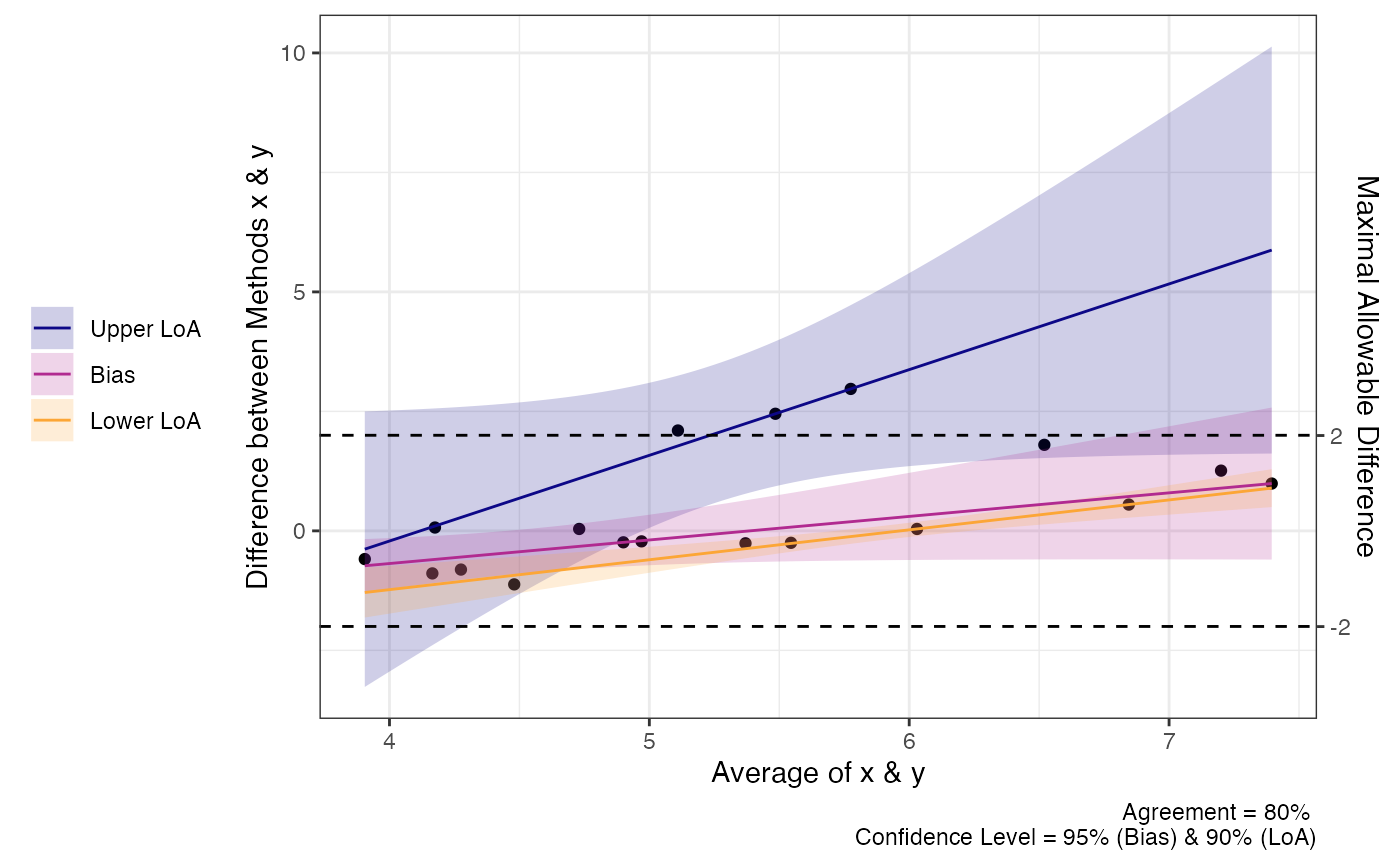
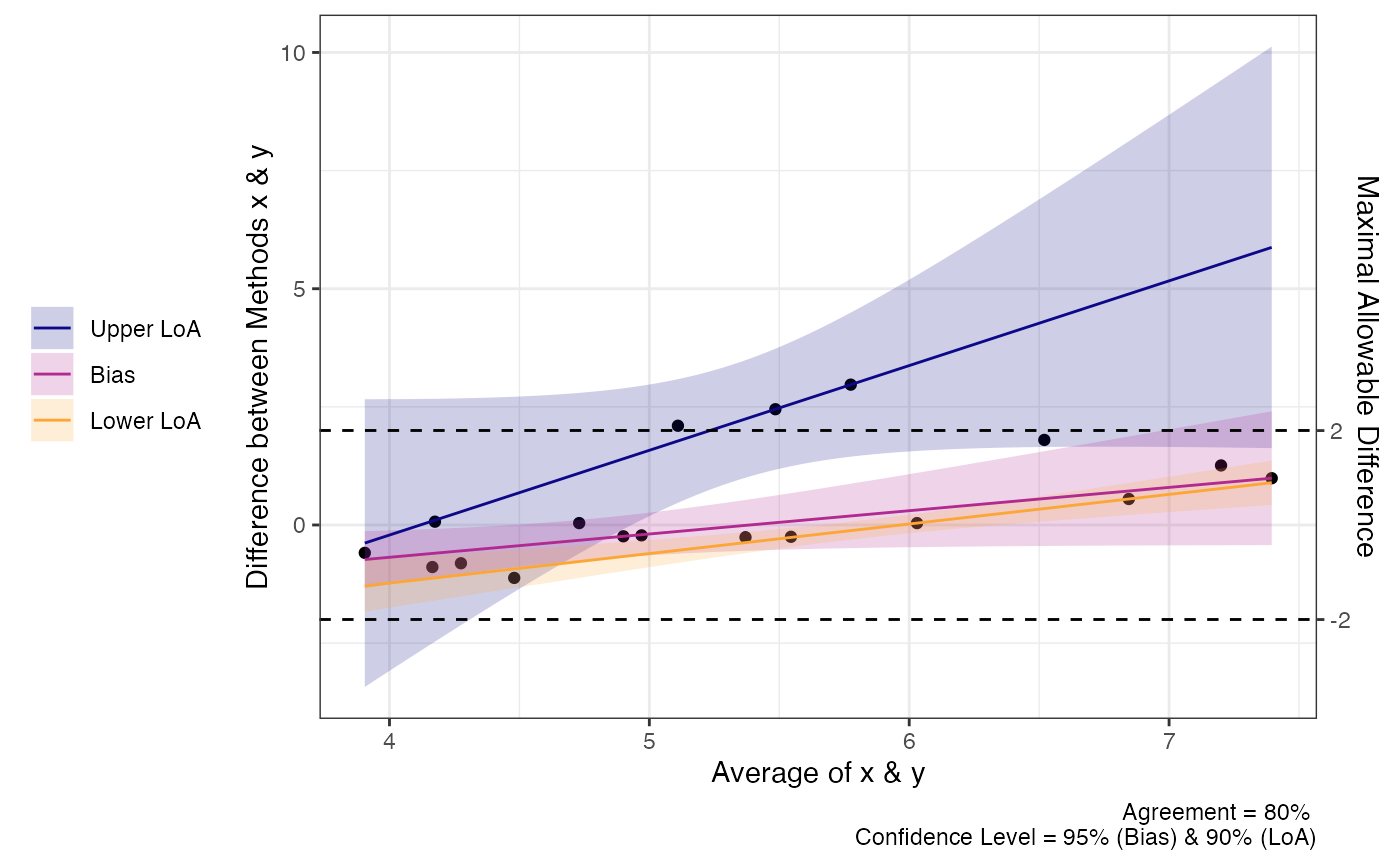
Update site and added tests

diff --git a/docs/reference/reli_stats.html b/docs/reference/reli_stats.html
@@ -1,5 +1,5 @@
 <!DOCTYPE html>
-<!-- Generated by pkgdown: do not edit by hand --><html lang="en"><head><meta http-equiv="Content-Type" content="text/html; charset=UTF-8"><meta charset="utf-8"><meta http-equiv="X-UA-Compatible" content="IE=edge"><meta name="viewport" content="width=device-width, initial-scale=1.0"><title>Reliability Statistics — reli_stats • SimplyAgree</title><!-- jquery --><script src="https://cdnjs.cloudflare.com/ajax/libs/jquery/3.4.1/jquery.min.js" integrity="sha256-CSXorXvZcTkaix6Yvo6HppcZGetbYMGWSFlBw8HfCJo=" crossorigin="anonymous"></script><!-- Bootstrap --><link rel="stylesheet" href="https://cdnjs.cloudflare.com/ajax/libs/twitter-bootstrap/3.4.1/css/bootstrap.min.css" integrity="sha256-bZLfwXAP04zRMK2BjiO8iu9pf4FbLqX6zitd+tIvLhE=" crossorigin="anonymous"><script src="https://cdnjs.cloudflare.com/ajax/libs/twitter-bootstrap/3.4.1/js/bootstrap.min.js" integrity="sha256-nuL8/2cJ5NDSSwnKD8VqreErSWHtnEP9E7AySL+1ev4=" crossorigin="anonymous"></script><!-- bootstrap-toc --><link rel="stylesheet" href="../bootstrap-toc.css"><script src="../bootstrap-toc.js"></script><!-- Font Awesome icons --><link rel="stylesheet" href="https://cdnjs.cloudflare.com/ajax/libs/font-awesome/5.12.1/css/all.min.css" integrity="sha256-mmgLkCYLUQbXn0B1SRqzHar6dCnv9oZFPEC1g1cwlkk=" crossorigin="anonymous"><link rel="stylesheet" href="https://cdnjs.cloudflare.com/ajax/libs/font-awesome/5.12.1/css/v4-shims.min.css" integrity="sha256-wZjR52fzng1pJHwx4aV2AO3yyTOXrcDW7jBpJtTwVxw=" crossorigin="anonymous"><!-- clipboard.js --><script src="https://cdnjs.cloudflare.com/ajax/libs/clipboard.js/2.0.6/clipboard.min.js" integrity="sha256-inc5kl9MA1hkeYUt+EC3BhlIgyp/2jDIyBLS6k3UxPI=" crossorigin="anonymous"></script><!-- headroom.js --><script src="https://cdnjs.cloudflare.com/ajax/libs/headroom/0.11.0/headroom.min.js" integrity="sha256-AsUX4SJE1+yuDu5+mAVzJbuYNPHj/WroHuZ8Ir/CkE0=" crossorigin="anonymous"></script><script src="https://cdnjs.cloudflare.com/ajax/libs/headroom/0.11.0/jQuery.headroom.min.js" integrity="sha256-ZX/yNShbjqsohH1k95liqY9Gd8uOiE1S4vZc+9KQ1K4=" crossorigin="anonymous"></script><!-- pkgdown --><link href="../pkgdown.css" rel="stylesheet"><script src="../pkgdown.js"></script><meta property="og:title" content="Reliability Statistics — reli_stats"><meta property="og:description" content="reli_stats produces reliability statistics described by Weir (2005). This includes intraclass correlation coefficients, the coefficient of variation, and the standard MSE of measurement."><!-- mathjax --><script src="https://cdnjs.cloudflare.com/ajax/libs/mathjax/2.7.5/MathJax.js" integrity="sha256-nvJJv9wWKEm88qvoQl9ekL2J+k/RWIsaSScxxlsrv8k=" crossorigin="anonymous"></script><script src="https://cdnjs.cloudflare.com/ajax/libs/mathjax/2.7.5/config/TeX-AMS-MML_HTMLorMML.js" integrity="sha256-84DKXVJXs0/F8OTMzX4UR909+jtl4G7SPypPavF+GfA=" crossorigin="anonymous"></script><!--[if lt IE 9]>
+<!-- Generated by pkgdown: do not edit by hand --><html lang="en"><head><meta http-equiv="Content-Type" content="text/html; charset=UTF-8"><meta charset="utf-8"><meta http-equiv="X-UA-Compatible" content="IE=edge"><meta name="viewport" content="width=device-width, initial-scale=1.0"><title>Reliability Statistics — reli_stats • SimplyAgree</title><!-- jquery --><script src="https://cdnjs.cloudflare.com/ajax/libs/jquery/3.4.1/jquery.min.js" integrity="sha256-CSXorXvZcTkaix6Yvo6HppcZGetbYMGWSFlBw8HfCJo=" crossorigin="anonymous"></script><!-- Bootstrap --><link rel="stylesheet" href="https://cdnjs.cloudflare.com/ajax/libs/twitter-bootstrap/3.4.1/css/bootstrap.min.css" integrity="sha256-bZLfwXAP04zRMK2BjiO8iu9pf4FbLqX6zitd+tIvLhE=" crossorigin="anonymous"><script src="https://cdnjs.cloudflare.com/ajax/libs/twitter-bootstrap/3.4.1/js/bootstrap.min.js" integrity="sha256-nuL8/2cJ5NDSSwnKD8VqreErSWHtnEP9E7AySL+1ev4=" crossorigin="anonymous"></script><!-- bootstrap-toc --><link rel="stylesheet" href="../bootstrap-toc.css"><script src="../bootstrap-toc.js"></script><!-- Font Awesome icons --><link rel="stylesheet" href="https://cdnjs.cloudflare.com/ajax/libs/font-awesome/5.12.1/css/all.min.css" integrity="sha256-mmgLkCYLUQbXn0B1SRqzHar6dCnv9oZFPEC1g1cwlkk=" crossorigin="anonymous"><link rel="stylesheet" href="https://cdnjs.cloudflare.com/ajax/libs/font-awesome/5.12.1/css/v4-shims.min.css" integrity="sha256-wZjR52fzng1pJHwx4aV2AO3yyTOXrcDW7jBpJtTwVxw=" crossorigin="anonymous"><!-- clipboard.js --><script src="https://cdnjs.cloudflare.com/ajax/libs/clipboard.js/2.0.6/clipboard.min.js" integrity="sha256-inc5kl9MA1hkeYUt+EC3BhlIgyp/2jDIyBLS6k3UxPI=" crossorigin="anonymous"></script><!-- headroom.js --><script src="https://cdnjs.cloudflare.com/ajax/libs/headroom/0.11.0/headroom.min.js" integrity="sha256-AsUX4SJE1+yuDu5+mAVzJbuYNPHj/WroHuZ8Ir/CkE0=" crossorigin="anonymous"></script><script src="https://cdnjs.cloudflare.com/ajax/libs/headroom/0.11.0/jQuery.headroom.min.js" integrity="sha256-ZX/yNShbjqsohH1k95liqY9Gd8uOiE1S4vZc+9KQ1K4=" crossorigin="anonymous"></script><!-- pkgdown --><link href="../pkgdown.css" rel="stylesheet"><script src="../pkgdown.js"></script><meta property="og:title" content="Reliability Statistics — reli_stats"><meta property="og:description" content="reli_stats and reli_aov produces reliability statistics described by Weir (2005). This includes intraclass correlation coefficients, the coefficient of variation, and the standard MSE of measurement."><!-- mathjax --><script src="https://cdnjs.cloudflare.com/ajax/libs/mathjax/2.7.5/MathJax.js" integrity="sha256-nvJJv9wWKEm88qvoQl9ekL2J+k/RWIsaSScxxlsrv8k=" crossorigin="anonymous"></script><script src="https://cdnjs.cloudflare.com/ajax/libs/mathjax/2.7.5/config/TeX-AMS-MML_HTMLorMML.js" integrity="sha256-84DKXVJXs0/F8OTMzX4UR909+jtl4G7SPypPavF+GfA=" crossorigin="anonymous"></script><!--[if lt IE 9]>
 <script src="https://oss.maxcdn.com/html5shiv/3.7.3/html5shiv.min.js"></script>
 <script src="https://oss.maxcdn.com/respond/1.4.2/respond.min.js"></script>
 <![endif]--></head><body data-spy="scroll" data-target="#toc">
@@ -17,7 +17,7 @@
       </button>
       <span class="navbar-brand">
         <a class="navbar-link" href="../index.html">SimplyAgree</a>
-        <span class="version label label-default" data-toggle="tooltip" data-placement="bottom" title="">0.1.1</span>
+        <span class="version label label-default" data-toggle="tooltip" data-placement="bottom" title="">0.1.2</span>
       </span>
     </div>
 
@@ -62,7 +62,7 @@
     </div>
 
     <div class="ref-description">
-    <p>reli_stats produces reliability statistics described by Weir (2005). This includes intraclass correlation coefficients, the coefficient of variation, and the standard MSE of measurement.</p>
+    <p>reli_stats and reli_aov produces reliability statistics described by Weir (2005). This includes intraclass correlation coefficients, the coefficient of variation, and the standard MSE of measurement.</p>
     </div>
 
     <div id="ref-usage">
@@ -73,7 +73,21 @@
   <span class="va">data</span>,
   wide <span class="op">=</span> <span class="cn">FALSE</span>,
   col.names <span class="op">=</span> <span class="cn">NULL</span>,
-  cv_calc <span class="op">=</span> <span class="st">"MSE"</span>,
+  cv_calc <span class="op">=</span> <span class="fu"><a href="https://rdrr.io/r/base/c.html" class="external-link">c</a></span><span class="op">(</span><span class="st">"MSE"</span>, <span class="st">"residuals"</span>, <span class="st">"SEM"</span><span class="op">)</span>,
+  conf.level <span class="op">=</span> <span class="fl">0.95</span>,
+  other_ci <span class="op">=</span> <span class="cn">FALSE</span>,
+  type <span class="op">=</span> <span class="fu"><a href="https://rdrr.io/r/base/c.html" class="external-link">c</a></span><span class="op">(</span><span class="st">"perc"</span>, <span class="st">"norm"</span>, <span class="st">"basic"</span><span class="op">)</span>,
+  replicates <span class="op">=</span> <span class="fl">1999</span>
+<span class="op">)</span>
+
+<span class="fu">reli_aov</span><span class="op">(</span>
+  <span class="va">measure</span>,
+  <span class="va">item</span>,
+  <span class="va">id</span>,
+  <span class="va">data</span>,
+  wide <span class="op">=</span> <span class="cn">FALSE</span>,
+  col.names <span class="op">=</span> <span class="cn">NULL</span>,
+  cv_calc <span class="op">=</span> <span class="fu"><a href="https://rdrr.io/r/base/c.html" class="external-link">c</a></span><span class="op">(</span><span class="st">"MSE"</span>, <span class="st">"residuals"</span>, <span class="st">"SEM"</span><span class="op">)</span>,
   conf.level <span class="op">=</span> <span class="fl">0.95</span>,
   other_ci <span class="op">=</span> <span class="cn">FALSE</span>,
   type <span class="op">=</span> <span class="st">"perc"</span>,
@@ -146,13 +160,15 @@
 </dl></div>
     <div id="details">
     <h2>Details</h2>
-    <p>The CV calculation has 3 versions. The "MSE" uses the "mean squared error" from the linear mixed model used to calculate the ICCs.
-The "SEM" option instead uses the SEM calculation and expresses CV as a ratio of the SEM to the overall mean.
-The "residuals" option uses the sjstats R package approach which uses the model residuals to calculate the root mean square error which is then divided by the grand mean.</p>
-<p>This function returns intraclass correlation coefficients and other measures of reliability (CV, SEM, SEE, and SEP).
+    <p>These functions return intraclass correlation coefficients and other measures of reliability (CV, SEM, SEE, and SEP).
 The estimates of variances for any of the measures are derived from linear mixed models.
-The results may differ slightly from the results from ICC calculations derived from an analysis of variance.
 When other_ci is set to TRUE, then a parametric bootstrap approach to calculating confidence intervals is used for the CV, SEM, SEE, and SEP.</p>
+<p>reli_stats uses a linear mixed model to estimate variance components. In some cases there are convergence issues.
+When this occurs it is prudent to use reli_aov which instead utilizes sums of squares approach.
+The results may differ slightly between the functions.</p>
+<p>The CV calculation has 3 versions. The "MSE" uses the "mean squared error" from the linear mixed model used to calculate the ICCs.
+The "SEM" option instead uses the SEM calculation and expresses CV as a ratio of the SEM to the overall mean.
+The "residuals" option u uses the model residuals to calculate the root mean square error which is then divided by the grand mean.</p>
     </div>
     <div id="references">
     <h2>References</h2>

diff --git a/docs/articles/reliability_analysis.html b/docs/articles/reliability_analysis.html
@@ -33,7 +33,7 @@
       </button>
       <span class="navbar-brand">
         <a class="navbar-link" href="../index.html">SimplyAgree</a>
-        <span class="version label label-default" data-toggle="tooltip" data-placement="bottom" title="">0.1.1</span>
+        <span class="version label label-default" data-toggle="tooltip" data-placement="bottom" title="">0.1.2</span>
       </span>
     </div>
 
@@ -100,7 +100,7 @@ Caldwell</h4>
 reliability of a measurement. This R package allows for the calculation
 of Intraclass Correlation Coefficients (ICC), various standard errors
 (SEM, SEE, and SEP), and coefficient of variation. All of the underlying
-calculations (sans the coefficient of variation) is based on the paper
+calculations (sans the coefficient of variation) are based on the paper
 by <span class="citation">Weir (<a href="#ref-weir2005" role="doc-biblioref">2005</a>)</span><a href="#fn1" class="footnote-ref" id="fnref1"><sup>1</sup></a>. This is a fairly popular paper within my
 own field (kinesiology), and hence was the inspiration for creating this
 function that provides all the calculative approaches included within
@@ -176,6 +176,39 @@ items (e.g., time points).</p>
 <div class="sourceCode" id="cb4"><pre class="downlit sourceCode r">
 <code class="sourceCode R"><span class="fu"><a href="https://rdrr.io/r/graphics/plot.default.html" class="external-link">plot</a></span><span class="op">(</span><span class="va">test1</span><span class="op">)</span></code></pre></div>
 <p><img src="reliability_analysis_files/figure-html/unnamed-chunk-4-1.png" width="576"></p>
+</div>
+<div class="section level2">
+<h2 id="convergence-issues">Convergence Issues<a class="anchor" aria-label="anchor" href="#convergence-issues"></a>
+</h2>
+<p>In some cases there are convergence issues for the linear mixed
+models. For this reason, I have added a function, <code>reli_aov</code>,
+which uses a sums of squares approach (i.e., analysis of variance)
+rather than a linear mixed model. As you can see below the results will
+often match that of <code>reli_stats</code>. The only time this function
+is necessary to use is when there are convergence issues. Rows with
+missing data are dropped when using <code>reli_aov</code>.</p>
+<div class="sourceCode" id="cb5"><pre class="downlit sourceCode r">
+<code class="sourceCode R"><span class="va">test2</span> <span class="op">=</span> <span class="fu"><a href="../reference/reli_stats.html">reli_aov</a></span><span class="op">(</span>
+  data <span class="op">=</span> <span class="va">dat</span>,
+  wide <span class="op">=</span> <span class="cn">TRUE</span>,
+  col.names <span class="op">=</span> <span class="fu"><a href="https://rdrr.io/r/base/c.html" class="external-link">c</a></span><span class="op">(</span><span class="st">"judge1"</span>, <span class="st">"judge2"</span>, <span class="st">"judge3"</span>, <span class="st">"judge4"</span><span class="op">)</span>
+<span class="op">)</span>
+
+<span class="va">test2</span>
+<span class="co">#&gt; </span>
+<span class="co">#&gt; Coefficient of Variation (%):  19.1</span>
+<span class="co">#&gt; Standard Error of Measurement (SEM):  1.01</span>
+<span class="co">#&gt; Standard Error of the Estimate (SEE):  2.62</span>
+<span class="co">#&gt; Standard Error of Prediction (SEP):  4.06</span>
+<span class="co">#&gt; </span>
+<span class="co">#&gt; Intraclass Correlation Coefficients with  95 % C.I.</span>
+<span class="co">#&gt;            Model         Measures  Type    ICC Lower CI Upper CI</span>
+<span class="co">#&gt; 1 one-way random        Agreement  ICC1 0.1657 -0.09672   0.6434</span>
+<span class="co">#&gt; 2 two-way random        Agreement  ICC2 0.2898  0.04290   0.6911</span>
+<span class="co">#&gt; 3  two-way fixed      Consistency  ICC3 0.7148  0.41183   0.9258</span>
+<span class="co">#&gt; 4 one-way random   Avg. Agreement ICC1k 0.4428 -0.54504   0.8783</span>
+<span class="co">#&gt; 5 two-way random   Avg. Agreement ICC2k 0.6201  0.15204   0.8995</span>
+<span class="co">#&gt; 6  two-way fixed Avg. Consistency ICC3k 0.9093  0.73690   0.9804</span></code></pre></div>
 </div>
 <div class="section level2">
 <h2 id="calculative-approach">Calculative Approach<a class="anchor" aria-label="anchor" href="#calculative-approach"></a>
@@ -499,7 +532,7 @@ penalized less than a pair of values to 1 and 4. For more details, on
 these “agreement coefficients” I refer all users to Gwet’s textbook on
 inter-rater agreement <span class="citation">(<a href="#ref-gwet" role="doc-biblioref">Gwet 2014</a>)</span>.</p>
 <p>As a demonstration, we can create a matrix of ratings.</p>
-<div class="sourceCode" id="cb5"><pre class="downlit sourceCode r">
+<div class="sourceCode" id="cb6"><pre class="downlit sourceCode r">
 <code class="sourceCode R">  <span class="va">ratermat1</span> <span class="op">=</span> <span class="op">(</span><span class="st">"Rater1 Rater2 Rater3 Rater4
 1       1      1     NA      1
 2       2      2      3      2
@@ -518,7 +551,7 @@ inter-rater agreement <span class="citation">(<a href="#ref-gwet" role="doc-bibl
                        header<span class="op">=</span><span class="cn">TRUE</span>,
                        row.names<span class="op">=</span><span class="fl">1</span><span class="op">)</span><span class="op">)</span></code></pre></div>
 <p>We can then perform the analysis without the weights.</p>
-<div class="sourceCode" id="cb6"><pre class="downlit sourceCode r">
+<div class="sourceCode" id="cb7"><pre class="downlit sourceCode r">
 <code class="sourceCode R"><span class="fu"><a href="../reference/agree_coef.html">agree_coef</a></span><span class="op">(</span>data <span class="op">=</span> <span class="va">ratermat2</span>,
                      wide <span class="op">=</span> <span class="cn">TRUE</span>,
                      weighted <span class="op">=</span> <span class="cn">FALSE</span>,
@@ -529,7 +562,7 @@ inter-rater agreement <span class="citation">(<a href="#ref-gwet" role="doc-bibl
 <span class="co">#&gt; Fleiss' Kappa          0.7611693 0.1530192 0.4243763        1</span>
 <span class="co">#&gt; Kririppendorff's Alpha 0.7434211 0.1454787 0.4192743        1</span></code></pre></div>
 <p>Or, perform it with weighting.</p>
-<div class="sourceCode" id="cb7"><pre class="downlit sourceCode r">
+<div class="sourceCode" id="cb8"><pre class="downlit sourceCode r">
 <code class="sourceCode R"><span class="fu"><a href="../reference/agree_coef.html">agree_coef</a></span><span class="op">(</span>data <span class="op">=</span> <span class="va">ratermat2</span>,
                     wide <span class="op">=</span> <span class="cn">TRUE</span>,
                     weighted <span class="op">=</span> <span class="cn">TRUE</span>,

diff --git a/docs/articles/agreement_analysis.html b/docs/articles/agreement_analysis.html
@@ -33,7 +33,7 @@
       </button>
       <span class="navbar-brand">
         <a class="navbar-link" href="../index.html">SimplyAgree</a>
-        <span class="version label label-default" data-toggle="tooltip" data-placement="bottom" title="">0.1.1</span>
+        <span class="version label label-default" data-toggle="tooltip" data-placement="bottom" title="">0.1.2</span>
       </span>
     </div>
 
@@ -645,9 +645,9 @@ are no longer symmetric around the bias estimate.</p>
 <span class="co">#&gt; </span>
 <span class="co">#&gt; ###- Quantile Limits of Agreement (LoA) -###</span>
 <span class="co">#&gt;           Estimate Lower CI Upper CI CI Level</span>
-<span class="co">#&gt; Lower LoA    -0.89  -1.3813  -0.3987     0.90</span>
-<span class="co">#&gt; Bias          0.04  -0.6313   0.7113     0.95</span>
-<span class="co">#&gt; Upper LoA     2.45   1.5166   3.3834     0.90</span>
+<span class="co">#&gt; Lower LoA    -0.89  -1.3939  -0.3861     0.90</span>
+<span class="co">#&gt; Bias          0.04  -0.4761   0.5561     0.95</span>
+<span class="co">#&gt; Upper LoA     2.45   1.4633   3.4367     0.90</span>
 
 <span class="fu"><a href="https://rdrr.io/r/graphics/plot.default.html" class="external-link">plot</a></span><span class="op">(</span><span class="va">a1</span><span class="op">)</span></code></pre></div>
 <p><img src="agreement_analysis_files/figure-html/unnamed-chunk-13-1.png" width="700"></p>
@@ -671,15 +671,15 @@ agreement does not.</p>
 <span class="co">#&gt; </span>
 <span class="co">#&gt; ###- Quantile Limits of Agreement (LoA) -###</span>
 <span class="co">#&gt;                  Estimate Lower CI Upper CI CI Level</span>
-<span class="co">#&gt; Lower LoA @ 3.9  -1.28975  -1.7167 -0.86281     0.90</span>
-<span class="co">#&gt; Lower LoA @ 5.24 -0.45436  -0.6453 -0.26346     0.90</span>
-<span class="co">#&gt; Lower LoA @ 7.4   0.89417   0.5919  1.19645     0.90</span>
-<span class="co">#&gt; Bias @ 3.9       -0.73052  -1.4201 -0.04098     0.95</span>
-<span class="co">#&gt; Bias @ 5.24      -0.07238  -0.6668  0.52201     0.95</span>
-<span class="co">#&gt; Bias @ 7.4        0.99000  -0.2953  2.27525     0.95</span>
-<span class="co">#&gt; Upper LoA @ 3.9  -0.38310  -2.6855  1.91929     0.90</span>
-<span class="co">#&gt; Upper LoA @ 5.24  2.01069   0.9870  3.03439     0.90</span>
-<span class="co">#&gt; Upper LoA @ 7.4   5.87483   2.3651  9.38455     0.90</span>
+<span class="co">#&gt; Lower LoA @ 3.9  -1.28975  -1.7123 -0.86720     0.90</span>
+<span class="co">#&gt; Lower LoA @ 5.24 -0.45436  -0.6464 -0.26231     0.90</span>
+<span class="co">#&gt; Lower LoA @ 7.4   0.89417   0.6269  1.16143     0.90</span>
+<span class="co">#&gt; Bias @ 3.9       -0.73052  -1.5027  0.04169     0.95</span>
+<span class="co">#&gt; Bias @ 5.24      -0.07238  -0.7007  0.55589     0.95</span>
+<span class="co">#&gt; Bias @ 7.4        0.99000  -0.2194  2.19944     0.95</span>
+<span class="co">#&gt; Upper LoA @ 3.9  -0.38310  -2.9172  2.15096     0.90</span>
+<span class="co">#&gt; Upper LoA @ 5.24  2.01069   1.0335  2.98792     0.90</span>
+<span class="co">#&gt; Upper LoA @ 7.4   5.87483   2.2701  9.47958     0.90</span>
 
 <span class="fu"><a href="https://rdrr.io/r/graphics/plot.default.html" class="external-link">plot</a></span><span class="op">(</span><span class="va">a1</span><span class="op">)</span></code></pre></div>
 <p><img src="agreement_analysis_files/figure-html/unnamed-chunk-14-1.png" width="700"></p>

diff --git a/docs/reference/agree_np.html b/docs/reference/agree_np.html
@@ -17,7 +17,7 @@
       </button>
       <span class="navbar-brand">
         <a class="navbar-link" href="../index.html">SimplyAgree</a>
-        <span class="version label label-default" data-toggle="tooltip" data-placement="bottom" title="">0.1.1</span>
+        <span class="version label label-default" data-toggle="tooltip" data-placement="bottom" title="">0.1.2</span>
       </span>
     </div>
 
@@ -131,7 +131,6 @@
     <h2>Examples</h2>
     <div class="sourceCode"><pre class="sourceCode r"><code><span class="r-in"><span class="fu"><a href="https://rdrr.io/r/utils/data.html" class="external-link">data</a></span><span class="op">(</span><span class="st">'reps'</span><span class="op">)</span></span>
 <span class="r-in"><span class="fu">agree_np</span><span class="op">(</span>x <span class="op">=</span> <span class="st">"x"</span>, y <span class="op">=</span> <span class="st">"y"</span>, id <span class="op">=</span> <span class="st">"id"</span>, data <span class="op">=</span> <span class="va">reps</span>, delta <span class="op">=</span> <span class="fl">2</span><span class="op">)</span></span>
-<span class="r-wrn co"><span class="r-pr">#&gt;</span> <span class="warning">Warning: </span>Evidence of proportional bias. Consider setting prop_bias to TRUE.</span>
 <span class="r-out co"><span class="r-pr">#&gt;</span> Limit of Agreement = 95%</span>
 <span class="r-out co"><span class="r-pr">#&gt;</span> Binomial proportions test and quantile regression for LoA</span>
 <span class="r-out co"><span class="r-pr">#&gt;</span> </span>
@@ -141,9 +140,9 @@
 <span class="r-out co"><span class="r-pr">#&gt;</span> </span>
 <span class="r-out co"><span class="r-pr">#&gt;</span> ###- Quantile Limits of Agreement (LoA) -###</span>
 <span class="r-out co"><span class="r-pr">#&gt;</span>           Estimate Lower CI Upper CI CI Level</span>
-<span class="r-out co"><span class="r-pr">#&gt;</span> Lower LoA    -1.12   -1.424  -0.8156     0.90</span>
-<span class="r-out co"><span class="r-pr">#&gt;</span> Bias          0.04   -0.606   0.6860     0.95</span>
-<span class="r-out co"><span class="r-pr">#&gt;</span> Upper LoA     2.97    2.123   3.8172     0.90</span>
+<span class="r-out co"><span class="r-pr">#&gt;</span> Lower LoA    -1.12  -1.4321  -0.8079     0.90</span>
+<span class="r-out co"><span class="r-pr">#&gt;</span> Bias          0.04  -0.5638   0.6438     0.95</span>
+<span class="r-out co"><span class="r-pr">#&gt;</span> Upper LoA     2.97   2.1328   3.8072     0.90</span>
 <span class="r-out co"><span class="r-pr">#&gt;</span> </span>
 </code></pre></div>
     </div>

diff --git a/docs/news/index.html b/docs/news/index.html
@@ -17,7 +17,7 @@
       </button>
       <span class="navbar-brand">
         <a class="navbar-link" href="../index.html">SimplyAgree</a>
-        <span class="version label label-default" data-toggle="tooltip" data-placement="bottom" title="">0.1.1</span>
+        <span class="version label label-default" data-toggle="tooltip" data-placement="bottom" title="">0.1.2</span>
       </span>
     </div>
 
@@ -62,7 +62,8 @@
 
     <div class="section level2">
 <h2 class="page-header" data-toc-text="0.1.2" id="simplyagree-012">SimplyAgree 0.1.2<a class="anchor" aria-label="anchor" href="#simplyagree-012"></a></h2>
-<ul><li>Fix to <code>agree_np</code> plot. (colors now align with order of LoA elements)</li>
+<ul><li>Fix to <code>agree_np</code> plot. (colors now align with order of LoA elements).</li>
+<li>Added <code>reli_aov</code> function for sums of squares approach.</li>
 </ul></div>
     <div class="section level2">
 <h2 class="page-header" data-toc-text="0.1.1" id="simplyagree-011">SimplyAgree 0.1.1<a class="anchor" aria-label="anchor" href="#simplyagree-011"></a></h2>

diff --git a/docs/reference/index.html b/docs/reference/index.html
@@ -17,7 +17,7 @@
       </button>
       <span class="navbar-brand">
         <a class="navbar-link" href="../index.html">SimplyAgree</a>
-        <span class="version label label-default" data-toggle="tooltip" data-placement="bottom" title="">0.1.1</span>
+        <span class="version label label-default" data-toggle="tooltip" data-placement="bottom" title="">0.1.2</span>
       </span>
     </div>
 
@@ -132,7 +132,7 @@
         </td>
         <td><p>Methods for powerCurve objects</p></td>
       </tr><tr><td>
-          <p><code><a href="reli_stats.html">reli_stats()</a></code> </p>
+          <p><code><a href="reli_stats.html">reli_stats()</a></code> <code><a href="reli_stats.html">reli_aov()</a></code> </p>
         </td>
         <td><p>Reliability Statistics</p></td>
       </tr><tr><td>

diff --git a/docs/articles/Deming.html b/docs/articles/Deming.html
@@ -33,7 +33,7 @@
       </button>
       <span class="navbar-brand">
         <a class="navbar-link" href="../index.html">SimplyAgree</a>
-        <span class="version label label-default" data-toggle="tooltip" data-placement="bottom" title="">0.1.1</span>
+        <span class="version label label-default" data-toggle="tooltip" data-placement="bottom" title="">0.1.2</span>
       </span>
     </div>
 

diff --git a/docs/articles/index.html b/docs/articles/index.html
@@ -17,7 +17,7 @@
       </button>
       <span class="navbar-brand">
         <a class="navbar-link" href="../index.html">SimplyAgree</a>
-        <span class="version label label-default" data-toggle="tooltip" data-placement="bottom" title="">0.1.1</span>
+        <span class="version label label-default" data-toggle="tooltip" data-placement="bottom" title="">0.1.2</span>
       </span>
     </div>
 

diff --git a/docs/articles/reanalysis.html b/docs/articles/reanalysis.html
@@ -33,7 +33,7 @@
       </button>
       <span class="navbar-brand">
         <a class="navbar-link" href="../index.html">SimplyAgree</a>
-        <span class="version label label-default" data-toggle="tooltip" data-placement="bottom" title="">0.1.1</span>
+        <span class="version label label-default" data-toggle="tooltip" data-placement="bottom" title="">0.1.2</span>
       </span>
     </div>
 

diff --git a/docs/reference/Data.html b/docs/reference/Data.html
@@ -17,7 +17,7 @@
       </button>
       <span class="navbar-brand">
         <a class="navbar-link" href="../index.html">SimplyAgree</a>
-        <span class="version label label-default" data-toggle="tooltip" data-placement="bottom" title="">0.1.1</span>
+        <span class="version label label-default" data-toggle="tooltip" data-placement="bottom" title="">0.1.2</span>
       </span>
     </div>
 

diff --git a/docs/reference/agree_coef.html b/docs/reference/agree_coef.html
@@ -17,7 +17,7 @@
       </button>
       <span class="navbar-brand">
         <a class="navbar-link" href="../index.html">SimplyAgree</a>
-        <span class="version label label-default" data-toggle="tooltip" data-placement="bottom" title="">0.1.1</span>
+        <span class="version label label-default" data-toggle="tooltip" data-placement="bottom" title="">0.1.2</span>
       </span>
     </div>
 

diff --git a/docs/reference/agree_nest.html b/docs/reference/agree_nest.html
@@ -17,7 +17,7 @@
       </button>
       <span class="navbar-brand">
         <a class="navbar-link" href="../index.html">SimplyAgree</a>
-        <span class="version label label-default" data-toggle="tooltip" data-placement="bottom" title="">0.1.1</span>
+        <span class="version label label-default" data-toggle="tooltip" data-placement="bottom" title="">0.1.2</span>
       </span>
     </div>
 
